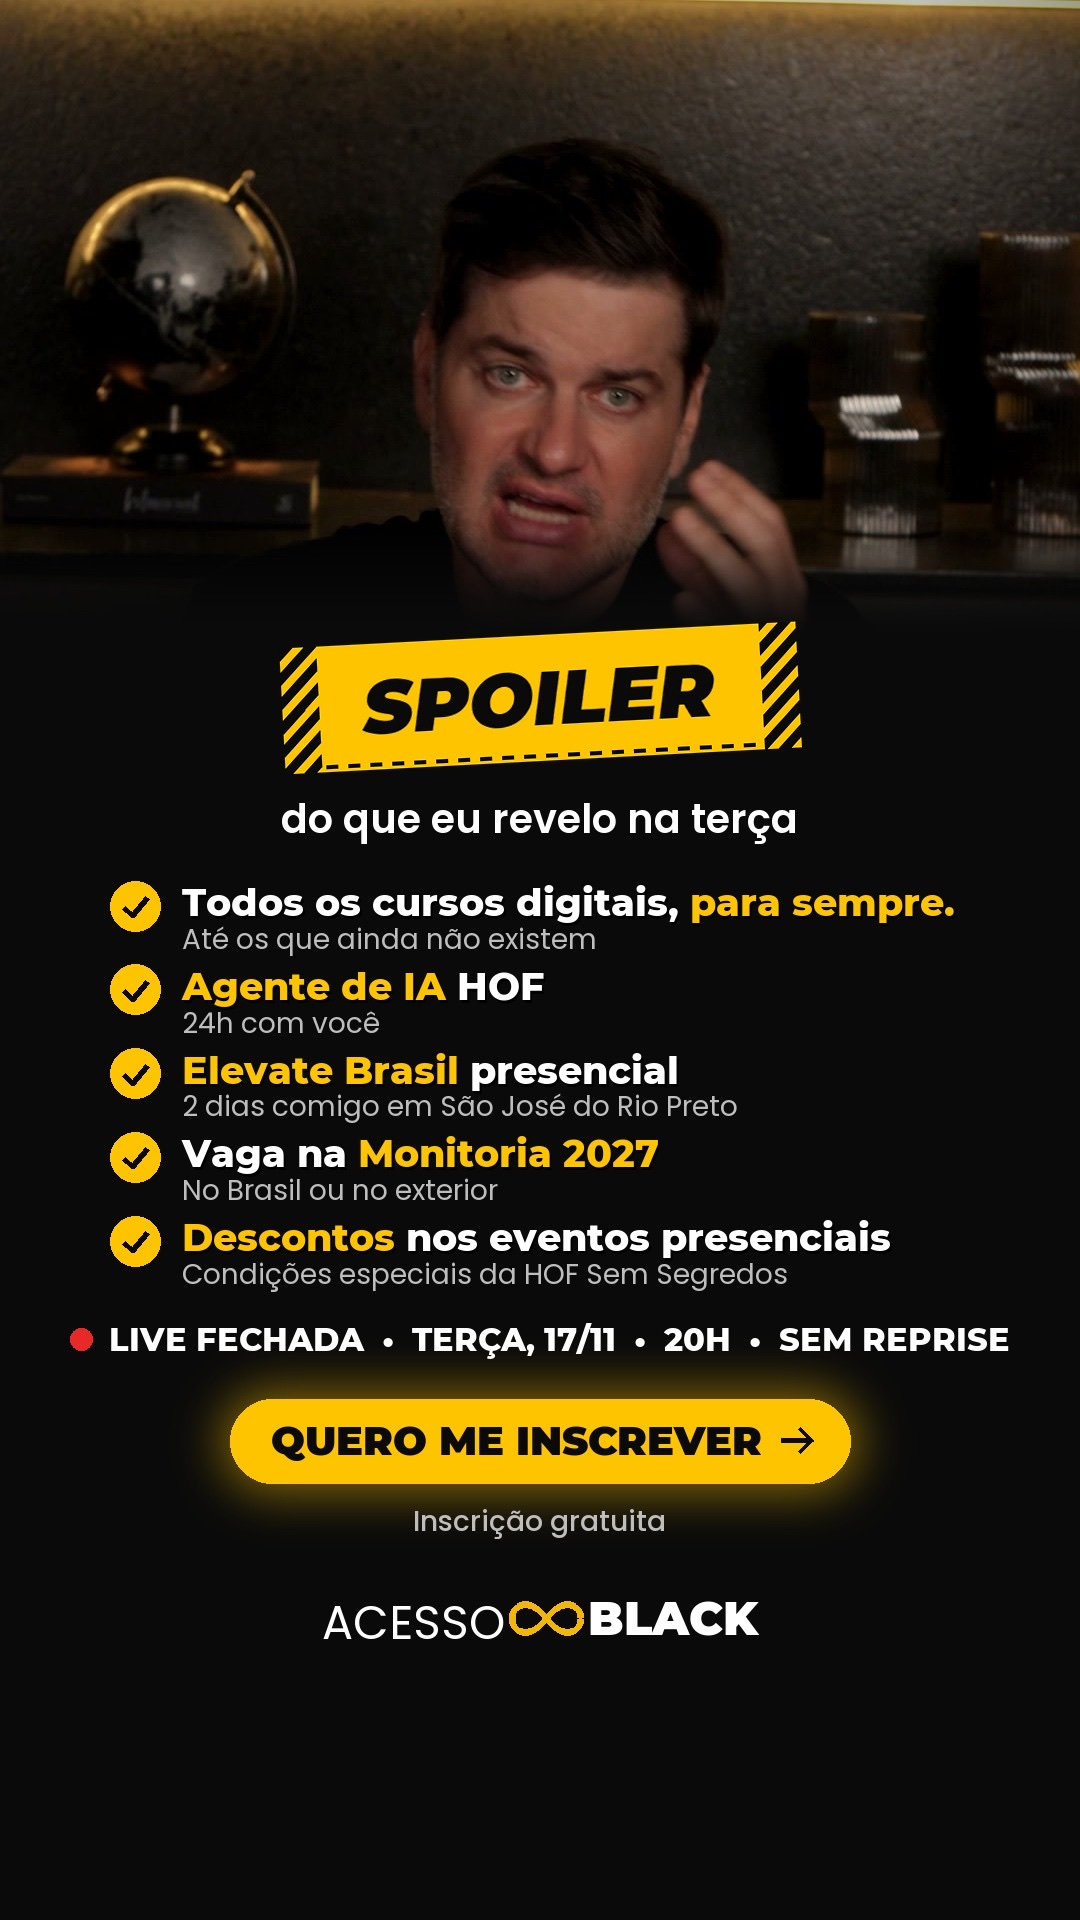
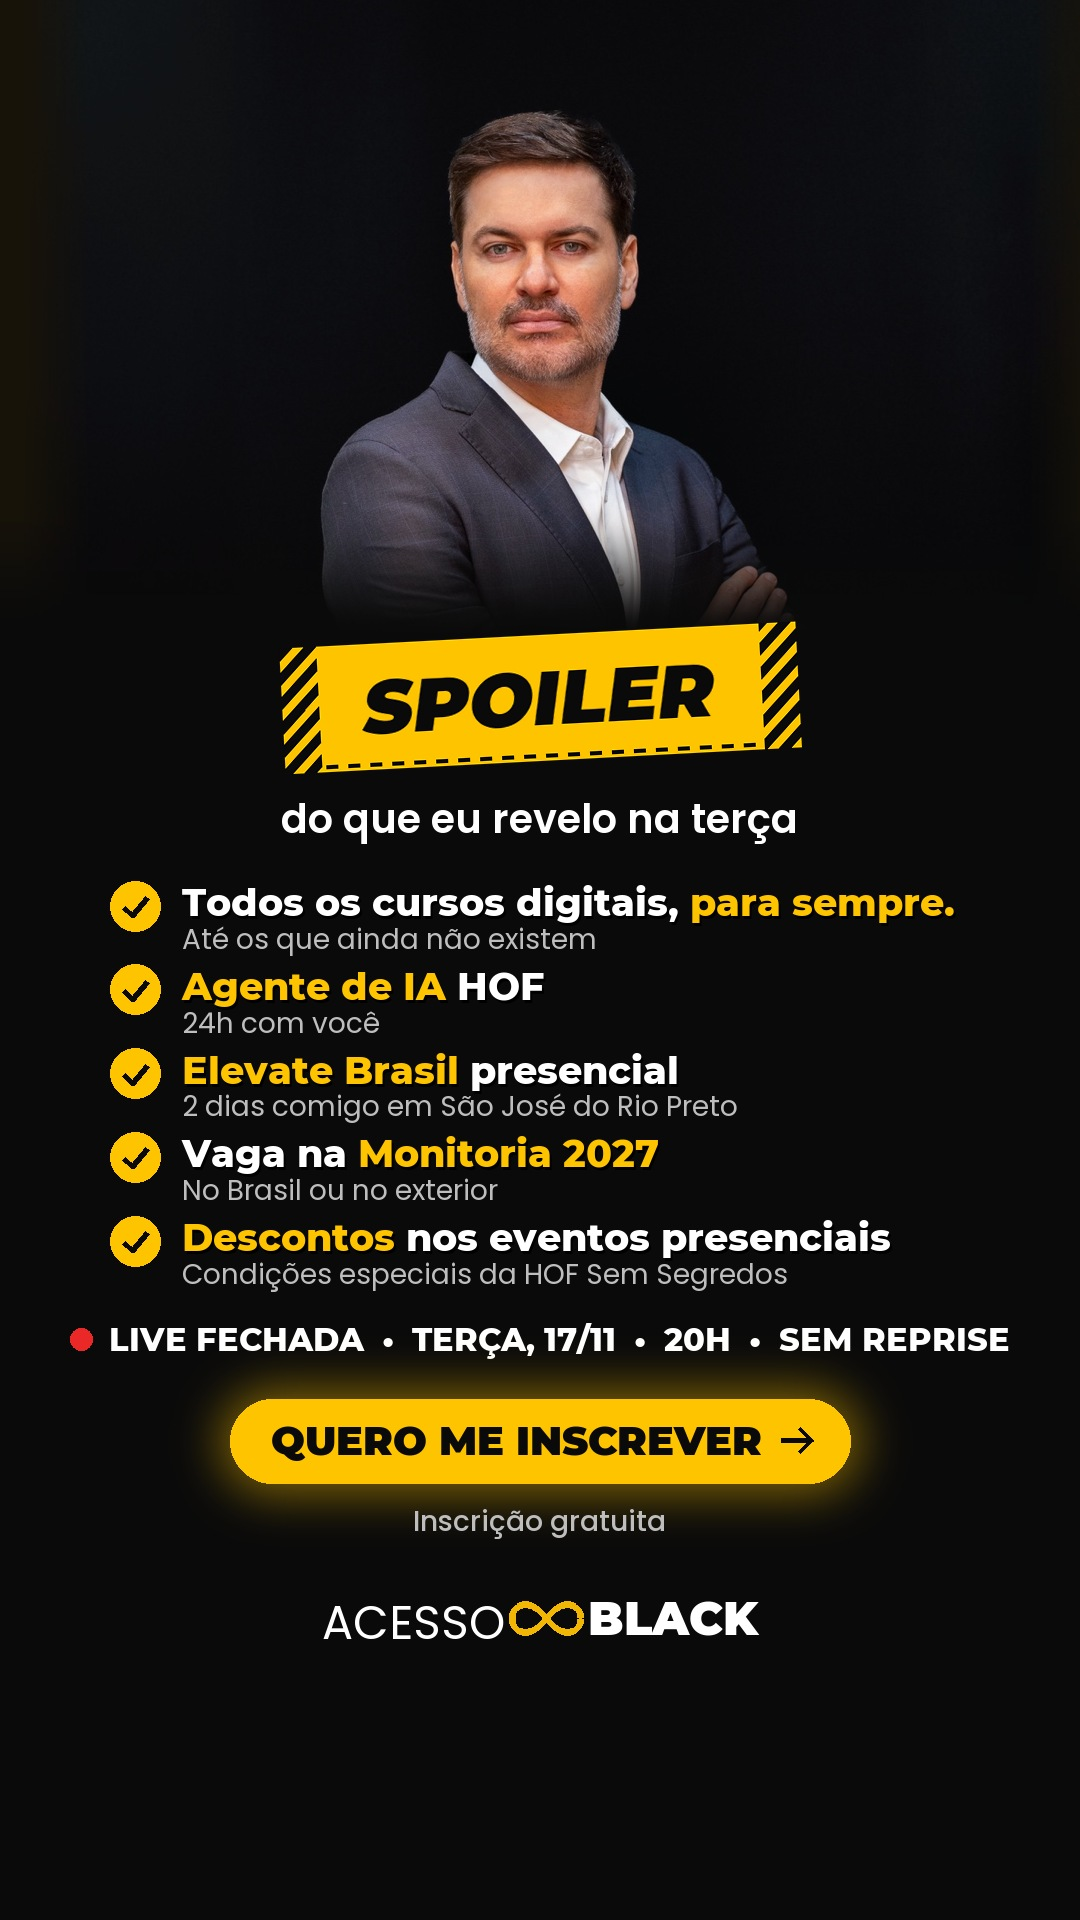
HOF Black: G02, G03, G08, G11 e G12 com as fotos novas do Marcelo (retorno do cliente)

diff --git a/hof/black-estaticos/index.html b/hof/black-estaticos/index.html
@@ -77,8 +77,8 @@ pre{white-space:pre-wrap;background:var(--sup);border:1px solid var(--linha);bor
   </div>
 </article><article class="peca" id="g02">
   <div class="artes">
-    <figure class="feed"><img src="img/G02_tela_paciente_real_feed_1080x1080.jpg" alt="G02 feed 1080×1080" loading="lazy"><figcaption>Feed e Reels · 1080×1080</figcaption></figure>
-    <figure class="story"><img src="img/G02_tela_paciente_real_story_1080x1920.jpg" alt="G02 story 1080×1920" loading="lazy"><figcaption>Stories · 9:16</figcaption></figure>
+    <figure class="feed"><img src="img/G02_tela_paciente_real_feed_1080x1080.jpg?v=4" alt="G02 feed 1080×1080" loading="lazy"><figcaption>Feed e Reels · 1080×1080</figcaption></figure>
+    <figure class="story"><img src="img/G02_tela_paciente_real_story_1080x1920.jpg?v=4" alt="G02 story 1080×1920" loading="lazy"><figcaption>Stories · 9:16</figcaption></figure>
   </div>
   <div class="info">
     <p class="cod"><span>G02</span></p>
@@ -90,8 +90,8 @@ pre{white-space:pre-wrap;background:var(--sup);border:1px solid var(--linha);bor
   </div>
 </article><article class="peca" id="g03">
   <div class="artes">
-    <figure class="feed"><img src="img/G03_spoiler_feed_1080x1080.jpg" alt="G03 feed 1080×1080" loading="lazy"><figcaption>Feed e Reels · 1080×1080</figcaption></figure>
-    <figure class="story"><img src="img/G03_spoiler_story_1080x1920.jpg" alt="G03 story 1080×1920" loading="lazy"><figcaption>Stories · 9:16</figcaption></figure>
+    <figure class="feed"><img src="img/G03_spoiler_feed_1080x1080.jpg?v=4" alt="G03 feed 1080×1080" loading="lazy"><figcaption>Feed e Reels · 1080×1080</figcaption></figure>
+    <figure class="story"><img src="img/G03_spoiler_story_1080x1920.jpg?v=4" alt="G03 story 1080×1920" loading="lazy"><figcaption>Stories · 9:16</figcaption></figure>
   </div>
   <div class="info">
     <p class="cod"><span>G03</span></p>
@@ -142,8 +142,8 @@ pre{white-space:pre-wrap;background:var(--sup);border:1px solid var(--linha);bor
   </div>
 </article><article class="peca" id="g08">
   <div class="artes">
-    <figure class="feed"><img src="img/G08_elevate_feed_1080x1080.jpg" alt="G08 feed 1080×1080" loading="lazy"><figcaption>Feed e Reels · 1080×1080</figcaption></figure>
-    <figure class="story"><img src="img/G08_elevate_story_1080x1920.jpg" alt="G08 story 1080×1920" loading="lazy"><figcaption>Stories · 9:16</figcaption></figure>
+    <figure class="feed"><img src="img/G08_elevate_feed_1080x1080.jpg?v=4" alt="G08 feed 1080×1080" loading="lazy"><figcaption>Feed e Reels · 1080×1080</figcaption></figure>
+    <figure class="story"><img src="img/G08_elevate_story_1080x1920.jpg?v=4" alt="G08 story 1080×1920" loading="lazy"><figcaption>Stories · 9:16</figcaption></figure>
   </div>
   <div class="info">
     <p class="cod"><span>G08</span></p>
@@ -168,21 +168,21 @@ pre{white-space:pre-wrap;background:var(--sup);border:1px solid var(--linha);bor
   </div>
 </article><article class="peca" id="g11">
   <div class="artes">
-    <figure class="feed"><img src="img/G11_paciente_indicar_feed_1080x1080.jpg" alt="G11 feed 1080×1080" loading="lazy"><figcaption>Feed e Reels · 1080×1080</figcaption></figure>
-    <figure class="story"><img src="img/G11_paciente_indicar_story_1080x1920.jpg" alt="G11 story 1080×1920" loading="lazy"><figcaption>Stories · 9:16</figcaption></figure>
+    <figure class="feed"><img src="img/G11_paciente_indicar_feed_1080x1080.jpg?v=4" alt="G11 feed 1080×1080" loading="lazy"><figcaption>Feed e Reels · 1080×1080</figcaption></figure>
+    <figure class="story"><img src="img/G11_paciente_indicar_story_1080x1920.jpg?v=4" alt="G11 story 1080×1920" loading="lazy"><figcaption>Stories · 9:16</figcaption></figure>
   </div>
   <div class="info">
     <p class="cod"><span>G11</span></p>
     <h2>O que faz indicar</h2>
-    <p class="obs">Gancho do vídeo 14. Perfil com planejamento.</p>
+    <p class="obs">Gancho do vídeo 14. Marcelo em foto de estúdio.</p>
     <p class="rot">Gancho da legenda</p>
     <p class="gancho">O que faz um paciente indicar você? Não é sorte. É avaliação, planejamento e execução. Na terça, eu mostro esse raciocínio ao vivo, num Full Face.</p>
     <p class="mais">+ bloco de spoiler fixo</p>
   </div>
 </article><article class="peca" id="g12">
   <div class="artes">
-    <figure class="feed"><img src="img/G12_instagram_bonito_feed_1080x1080.jpg" alt="G12 feed 1080×1080" loading="lazy"><figcaption>Feed e Reels · 1080×1080</figcaption></figure>
-    <figure class="story"><img src="img/G12_instagram_bonito_story_1080x1920.jpg" alt="G12 story 1080×1920" loading="lazy"><figcaption>Stories · 9:16</figcaption></figure>
+    <figure class="feed"><img src="img/G12_instagram_bonito_feed_1080x1080.jpg?v=4" alt="G12 feed 1080×1080" loading="lazy"><figcaption>Feed e Reels · 1080×1080</figcaption></figure>
+    <figure class="story"><img src="img/G12_instagram_bonito_story_1080x1920.jpg?v=4" alt="G12 story 1080×1920" loading="lazy"><figcaption>Stories · 9:16</figcaption></figure>
   </div>
   <div class="info">
     <p class="cod"><span>G12</span></p>
